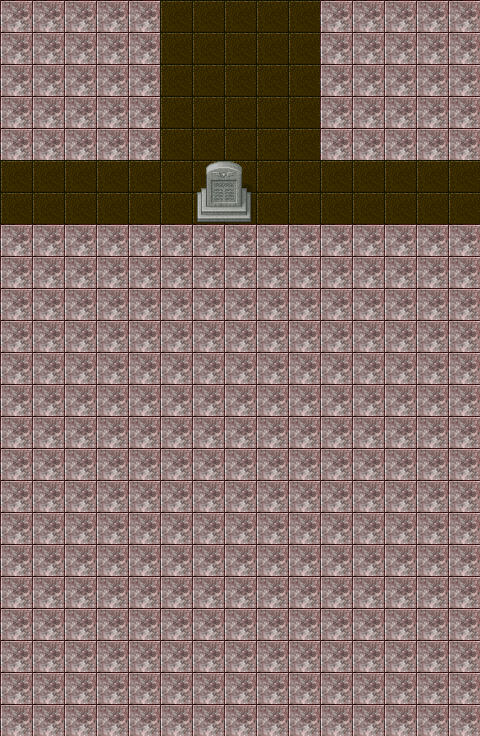
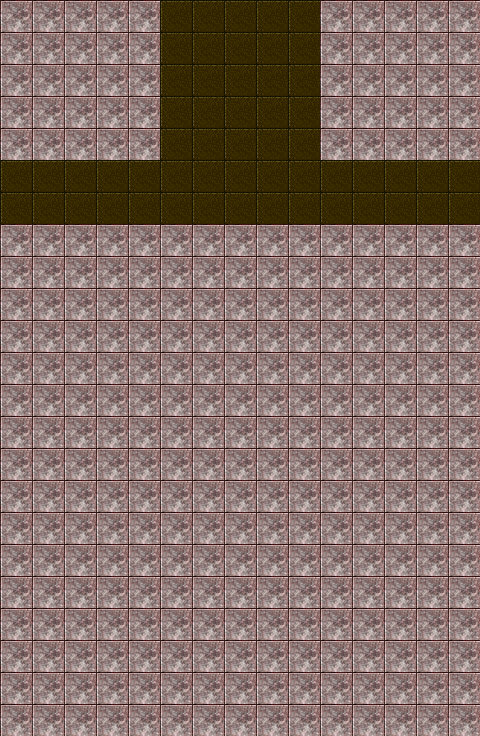
Start on vulcano

Changed region(s): [[0.4062, 0.2188, 0.5312, 0.3125]]

diff --git a/core/src/com/mygdx/game/GameObjects/Hazards/Flames.kt b/core/src/com/mygdx/game/GameObjects/Hazards/Flames.kt
@@ -1,23 +1,36 @@
 package com.mygdx.game.GameObjects.Hazards
 
+import RemoveObjectSignal
 import com.badlogic.gdx.Gdx
 import com.badlogic.gdx.graphics.g2d.ParticleEffect
 import com.badlogic.gdx.graphics.g2d.SpriteBatch
 import com.badlogic.gdx.math.Vector2
-import com.mygdx.game.DefaultParticleHandler
-import com.mygdx.game.DefaultTextureHandler
+import com.mygdx.game.*
+import com.mygdx.game.Collition.MoveCollision
 import com.mygdx.game.Enums.Layer
-import com.mygdx.game.GameObjectData
+import com.mygdx.game.GameObjects.AnimeliaPosition
 import com.mygdx.game.GameObjects.GameObject.GameObject
+import com.mygdx.game.GameObjects.MoveableEntities.Characters.Player
+import com.mygdx.game.GameObjects.MoveableObjects.Projectile.Icicle
+import com.mygdx.game.Managers.AreaManager
+import com.mygdx.game.Managers.SignalManager
 import com.mygdx.game.Particles.AnimeliaEffect
+import kotlinx.serialization.Serializable
+import kotlinx.serialization.json.Json
+import kotlinx.serialization.json.decodeFromJsonElement
 
 class Flames(gameObjectData: GameObjectData)
     : GameObject(gameObjectData, Vector2(gameObjectData.width.toFloat(),gameObjectData.height.toFloat())) {
     override val texture = DefaultTextureHandler.getTexture("sensor.png")
     override val layer = Layer.ONGROUND
 
+    lateinit var goToPosition: AnimeliaPosition
+    val posEntityRef = Json.decodeFromJsonElement<FlamesCustomFields>(gameObjectData.customFields).Position
+
     var effect: ParticleEffect = ParticleEffect()
     lateinit var animeliaEffect: AnimeliaEffect
+
+    override val collision = FlamesCollision(this)
 
     override fun initObject() {
         super.initObject()
@@ -25,9 +38,32 @@ class Flames(gameObjectData: GameObjectData)
         animeliaEffect = AnimeliaEffect(effect)
         animeliaEffect.particleEffect.setPosition(this.currentMiddle.x, this.currentMiddle.y)
         animeliaEffect.particleEffect.start()
+
+        goToPosition = AreaManager.getObjectWithIid(
+            posEntityRef.entityIid,
+            posEntityRef.levelIid
+        ) as AnimeliaPosition
+
     }
 
     override fun render(batch: SpriteBatch) {
         animeliaEffect.render(batch)
     }
+}
+
+@Serializable
+class FlamesCustomFields(val Position: EntityRefData)
+class FlamesCollision(val flames: Flames): MoveCollision() {
+    override var canMoveAfterCollision = true
+
+    override fun collisionHappened(collidedObject: GameObject) {
+        if(collidedObject is Icicle){
+            SignalManager.emitSignal(RemoveObjectSignal(flames.gameObjectIid))
+            collidedObject
+        }
+        if(collidedObject is Player){
+            player.setPosition(flames.goToPosition.currentPosition())
+        }
+    }
+
 }

diff --git a/core/src/com/mygdx/game/GameObjects/Hazards/Lava.kt b/core/src/com/mygdx/game/GameObjects/Hazards/Lava.kt
@@ -1,14 +1,19 @@
 package com.mygdx.game.GameObjects.Hazards
 
 import com.badlogic.gdx.graphics.g2d.SpriteBatch
+import com.badlogic.gdx.math.Polygon
 import com.badlogic.gdx.math.Vector2
 import com.mygdx.game.Collisions.CanMoveCollision
+import com.mygdx.game.Collition.MoveCollision
+import com.mygdx.game.Collition.OnlyPlayerCollitionMask
 import com.mygdx.game.DefaultTextureHandler
 import com.mygdx.game.Enums.Layer
 import com.mygdx.game.GameObjectData
 import com.mygdx.game.GameObjects.AnimeliaPosition
 import com.mygdx.game.GameObjects.GameObject.GameObject
 import com.mygdx.game.Managers.AreaManager
+import com.mygdx.game.Managers.CollisionManager
+import com.mygdx.game.player
 import com.mygdx.game.renderRepeatedTexture
 import kotlinx.serialization.json.Json
 import kotlinx.serialization.json.decodeFromJsonElement
@@ -19,7 +24,8 @@ class Lava(gameObjectData: GameObjectData)
     val posEntityRef = Json.decodeFromJsonElement<EntityRefCustomFields>(gameObjectData.customFields).Entity_ref
     override val texture = DefaultTextureHandler.getTexture("lava.png")
     override val layer = Layer.ONGROUND
-    override val collision = CanMoveCollision()
+    override val collision = LavaCollision(this)
+    override val collisionMask = OnlyPlayerCollitionMask
 
     override fun initObject() {
         super.initObject()
@@ -32,4 +38,17 @@ class Lava(gameObjectData: GameObjectData)
     override fun render(batch: SpriteBatch) {
         renderRepeatedTexture(batch, texture, this.currentPosition(), Vector2(sprite.width, sprite.height))
     }
+}
+
+class LavaCollision(val lava: Lava): MoveCollision(){
+    override var canMoveAfterCollision = true
+
+    override fun collisionCheck(polygon1: Polygon, polygon2: Polygon): Boolean {
+        return CollisionManager.isMiddleInPolygon(polygon1, polygon2)
+    }
+
+    override fun collisionHappened(collidedObject: GameObject) {
+        player.setPosition(lava.goToPosition.currentPosition())
+    }
+
 }

diff --git a/core/src/com/mygdx/game/GameObjects/Structures/Fountain.kt b/core/src/com/mygdx/game/GameObjects/Structures/Fountain.kt
@@ -18,11 +18,9 @@ import com.mygdx.game.mainMode
 
 class Fountain(gameObjectData: GameObjectData)
     : GameObject(gameObjectData, Vector2(gameObjectData.width.toFloat(),gameObjectData.height.toFloat())) {
-    override val texture = DefaultTextureHandler.getTexture("TrainingStatue.png")
+    override val texture = DefaultTextureHandler.getTexture("toomstone.png")
     override val layer = Layer.ONGROUND
     override val collision = FountainCollision()
-    override fun render(batch: SpriteBatch) {
-    }
 }
 
 class FountainCollision(): InputCollision(){

diff --git a/core/src/com/mygdx/game/GameObjects/Structures/House.kt b/core/src/com/mygdx/game/GameObjects/Structures/House.kt
@@ -39,6 +39,7 @@ fun getHouseTexture(houseAsString: String): String{
     return when(houseAsString){
         "Iglo" -> "iglo.png"
         "Ice_Castle" -> "IceCastle.png"
-        else -> "iglo.png"
+        "Vulcano" -> "vulcano.png"
+        else -> "vulcano.png"
     }
 }

diff --git a/core/src/com/mygdx/game/HelperMethods.kt b/core/src/com/mygdx/game/HelperMethods.kt
@@ -100,7 +100,7 @@ fun changeArea(newPos: Vector2, newAreaIdentifier: String, shouldSave: Boolean =
 }
 
 fun initAreas(){
-    val amountOfLevels = 42
+    val amountOfLevels = 43
     for(i in 0..<amountOfLevels){
         InitArea("levels/Level_$i")
     }
